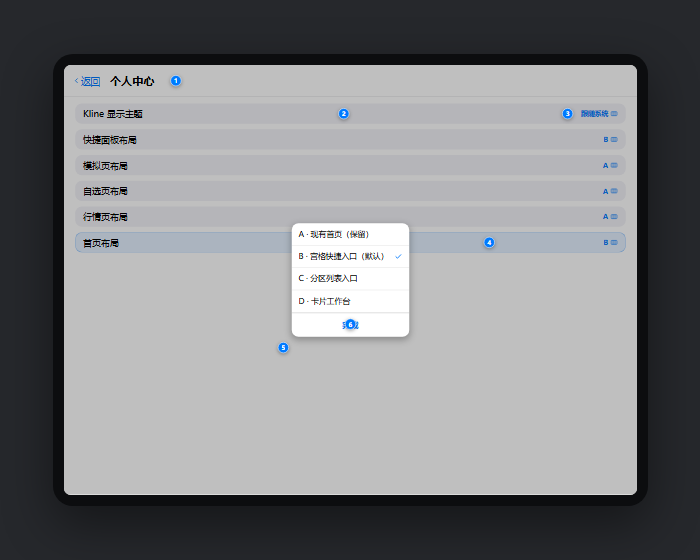
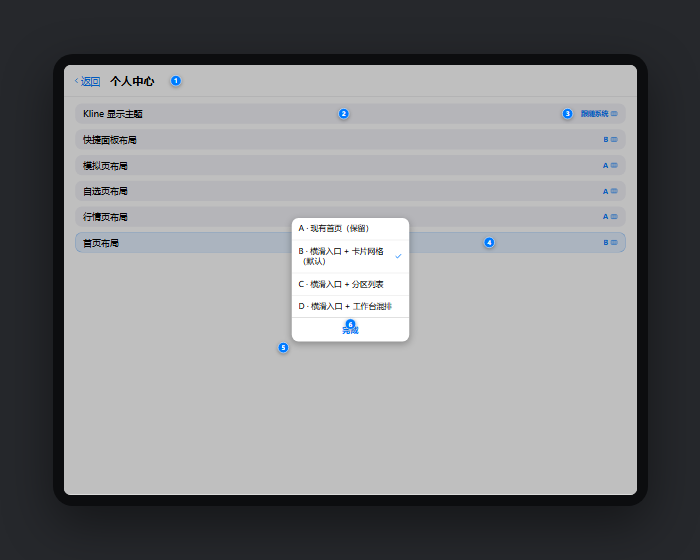
fix(home-layout): 首页档位名称同步为横滑入口形态

Changed region(s): [[0.42, 0.3643, 0.6, 0.6375]]

diff --git a/figma/home-ui-proposals.html b/figma/home-ui-proposals.html
@@ -542,7 +542,7 @@ body.shot .stage{display:block;margin:0}
       <span class="sec-no">区块二</span>
       <h2>个人中心 · 首页布局切换</h2>
       <div class="sub">四档首页布局在个人中心里选择：六行设置（Kline 显示主题、快捷面板布局、模拟页布局、自选页布局、行情页布局、<b style="color:#fff">首页布局</b>）共用同一个 210pt 宽的选择浮层面板。
-        面板居中弹出、当前档右侧蓝色对勾、点击立即生效（不关面板），底部蓝色「完成」关闭。下图演示点开「首页布局」的状态，当前档为 B · 宫格快捷入口。</div>
+        面板居中弹出、当前档右侧蓝色对勾、点击立即生效（不关面板），底部蓝色「完成」关闭。下图演示点开「首页布局」的状态，当前档为 B · 横滑入口 + 卡片网格。</div>
     </div>
 
     <div class="stage">
@@ -561,9 +561,9 @@ body.shot .stage{display:block;margin:0}
               <div class="scrim"></div>
               <div class="opt-panel">
                 <div class="opt-row"><span class="ot">A · 现有首页（保留）</span></div>
-                <div class="opt-row"><span class="ot">B · 宫格快捷入口（默认）</span><span class="ok"><svg><use href="#i-check"/></svg></span></div>
-                <div class="opt-row"><span class="ot">C · 分区列表入口</span></div>
-                <div class="opt-row"><span class="ot">D · 卡片工作台</span></div>
+                <div class="opt-row"><span class="ot">B · 横滑入口 + 卡片网格（默认）</span><span class="ok"><svg><use href="#i-check"/></svg></span></div>
+                <div class="opt-row"><span class="ot">C · 横滑入口 + 分区列表</span></div>
+                <div class="opt-row"><span class="ot">D · 横滑入口 + 工作台混排</span></div>
                 <div class="opt-done">完成</div>
               </div>
             </div>

diff --git a/Kline/App/PageLayoutStore.swift b/Kline/App/PageLayoutStore.swift
@@ -76,9 +76,9 @@ enum HomeLayoutStyle: String, CaseIterable, Identifiable {
     var title: String {
         switch self {
         case .a: return "A · 现有首页（保留）"
-        case .b: return "B · 宫格快捷入口（默认）"
-        case .c: return "C · 分区列表入口"
-        case .d: return "D · 卡片工作台"
+        case .b: return "B · 横滑入口 + 卡片网格（默认）"
+        case .c: return "C · 横滑入口 + 分区列表"
+        case .d: return "D · 横滑入口 + 工作台混排"
         }
     }
 

diff --git a/.trae/specs/redesign-home-layouts/tasks.md b/.trae/specs/redesign-home-layouts/tasks.md
@@ -135,6 +135,13 @@
 - [ ] Task 23: 逐条核验 checklist 的「变更二」章节（入口行 / 内容区 / 数据口径 / 浮层 / figma 同步 / 工程），失败条目回填 tasks 修复后重验
 - [ ] Task 24: 最终交付说明（build 号、入口与内容区一览、真机验证路径与回归点、`git status` 无遗留改动）
 
+## 阶段九（变更二收尾）：档位名称同步
+
+- [ ] Task 25: 修正档位名称（变更二漏项）：三档形态已从「宫格 / 分组列表 / 大卡」变为「横滑入口 + 内容区」，`HomeLayoutStyle.title` 仍是旧名，个人中心面板会误导用户
+  - [ ] SubTask 25.1: [PageLayoutStore.swift](file:///c:/Users/sunck/home/projects/ios/Kline/Kline/App/PageLayoutStore.swift#L76-L83) 的 `HomeLayoutStyle.title` 改为：`A · 现有首页（保留）` / `B · 横滑入口 + 卡片网格（默认）` / `C · 横滑入口 + 分区列表` / `D · 横滑入口 + 工作台混排`
+  - [ ] SubTask 25.2: `figma/home-ui-proposals.html` 的个人中心演示屏（`#scr-profileHomeLayout`）四个选项文案同步为新名（保持 A 屏不动），并重截 `figma/_shots/home_profile.png`
+  - [ ] SubTask 25.3: 执行闭环命令 `python c:/Users/sunck/home/projects/ios/TrollRestore/build_and_deploy.py "fix(home-layout): 首页档位名称同步为横滑入口形态"`
+
 # Task Dependencies
 
 - Task 2 依赖 Task 1（同一 HTML 文件、共用画廊骨架与 `SCREENS` 表）
